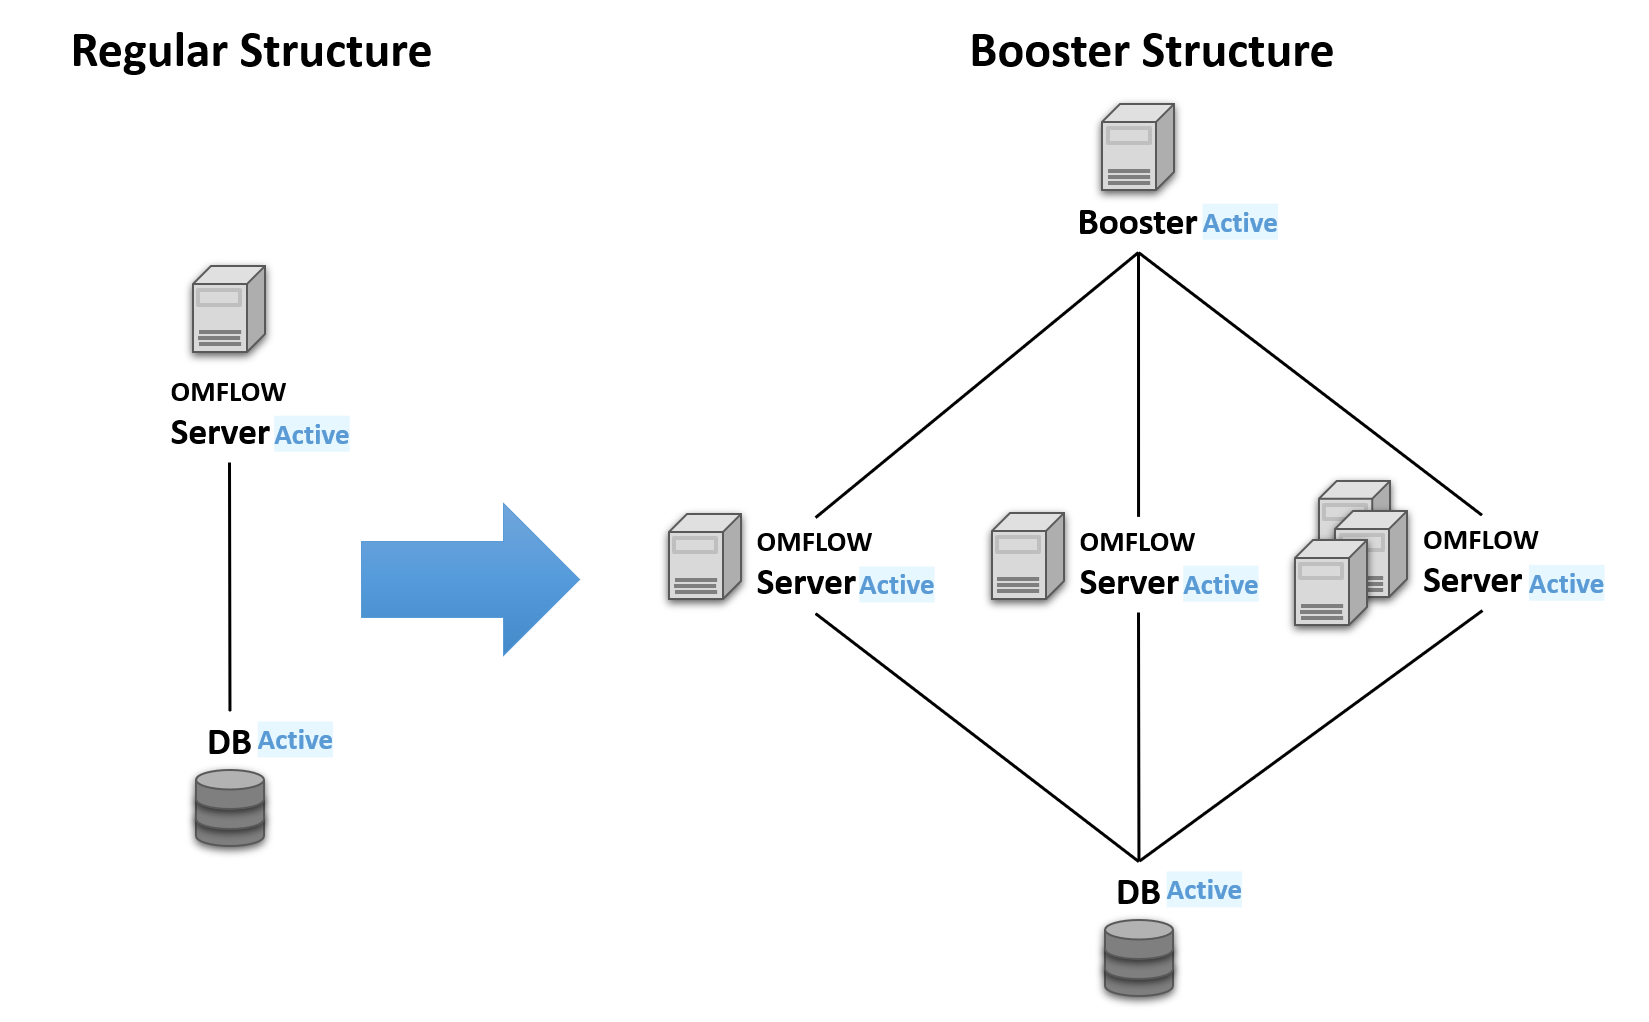
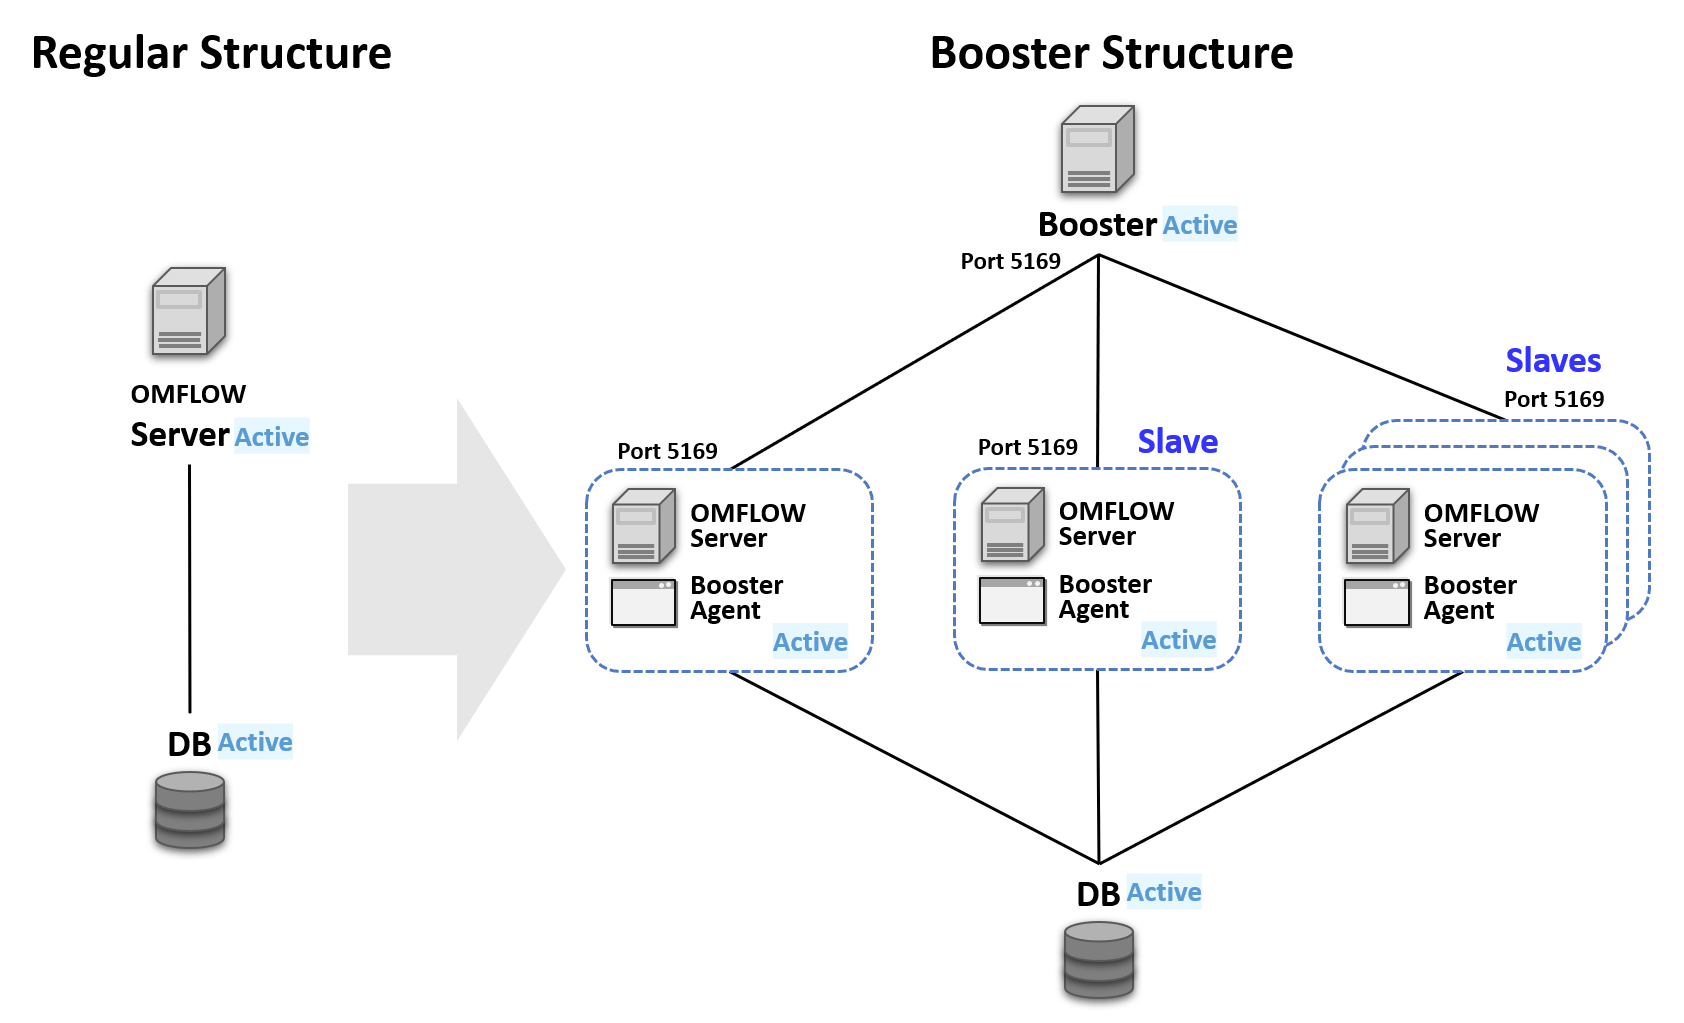
GitBook: [#507] No subject

diff --git a/3/an-zhuang-booster.md b/3/an-zhuang-booster.md
@@ -10,13 +10,13 @@ description: 支援Python：3.7.7、3.8
 
 當用戶需要長時間大量開單或是眾多使用者同時上線等極耗效能情境出現，導致單台OMFLOW Server難以負荷時。OMFLOW也提供了負載平衡的機制，可同時建置多台OMFLOW Server分散效能，並由Booster進行協同調配進而提升整體效率，架構圖如下：
 
-![](<../.gitbook/assets/OMFLOW架構 (2).png>)
+![](<../.gitbook/assets/OMFLOW架構 (1).png>)
 
 ### 負載平衡兼高可用架性構
 
 同時OMFLOW也提供了高可用性的架構，將Booster分為「主、副」兩台，所有OMFLOW Server都會依此順序向Booster報到，以確保此架構任一節點失去聯繫時，系統仍能正常運作。
 
-![](../.gitbook/assets/HA架構.png)
+![](<../.gitbook/assets/HA架構 (1).png>)
 
 #### OMFLOW Booster
 
@@ -28,13 +28,25 @@ description: 支援Python：3.7.7、3.8
 
 ## 安裝步驟
 
-### 1.  安裝 OMFLOW Booster
+### 1. 環境需求
+
+Booster伺服器：建議至少 4 core 8 GB，用於安裝OMFLOWBooster
+
+Python：確保Booster與OMFLOWServer的Python版本為3.7.7或3.8以上
+
+Port：確保Booster與OMFLOWServer之間的5169埠號相互開通
+
+### 2. 安裝 OMFLOW Booster
 
 最優先安裝，並依照情境安裝一台或兩台Booster。兩者無順序要求，安裝時需填入以下資訊：
 
 #### 輸入本機IP/Domain 及 Port：
 
 填寫此Booster所代表的IP/Domain及Port，並確保所有OMFLOW Server與此連通。
+
+{% hint style="info" %}
+除Booster以外，OMFLOW Server也需要開通5169埠號。
+{% endhint %}
 
 #### 輸入 HA Booster IP/Domain 及 Port(非必填)：
 
@@ -56,7 +68,7 @@ cd Booster_1140
 ./install.sh
 ```
 
-### 2. 建置資料庫
+### 3. 建置資料庫
 
 Booster架構並不支援Sqlite，需要事先建立好對應的資料庫。OMFLOW支援的資料庫如下：
 
@@ -71,7 +83,7 @@ Booster架構並不支援Sqlite，需要事先建立好對應的資料庫。OMFL
 
 
 
-### 3. 安裝 OMFLOW Server
+### 4. 安裝 OMFLOW Server
 
 當Booster安裝完畢後，接著安裝本架構的**第一台OMFLOW Server**。安裝過程會需要額外填入以下資訊：
 
@@ -91,12 +103,16 @@ Booster架構並不支援Sqlite，需要事先建立好對應的資料庫。OMFL
 
 若在安裝Booster之前已有運行中的OMFLOWServer，可按照以下步驟進行：
 
+{% hint style="warning" %}
+安裝前請先備份資料庫。
+{% endhint %}
+
 1. 確保運行中的OMFLOW Server資料庫並非Sqlite
 2. 將OMFLOW Server更新至最新版本
 3. 修改setting.py文件，將Booster相關資訊填入BOOSTER\_IP、BOOSTER\_PORT、SECOND\_BOOSTER\_IP、SECOND\_BOOSTER\_PORT四個參數
 4. 重啟OMFLOW Server
 
-### 4. 安裝 OMFLOW Booster Agent
+### 5. 安裝 OMFLOW Booster Agent
 
 待第一台OMFLOW Server安裝完畢後，在同一環境上繼續安裝OMFLOW Booster Agent。
 
@@ -116,7 +132,7 @@ cd BoosterAgent_1140
 ./install.sh
 ```
 
-### 5. 安裝 OMFLOW Slave
+### 6. 安裝 OMFLOW Slave
 
 待以上步驟皆完成後，最後便是依照情境的需求安裝一台以上的OMFLOWSlave。OMFLOWSlave內已包含OMFLOW Server及OMFLOWBooster Agent，安裝過程會需要額外填入以下資訊：
 
@@ -127,6 +143,12 @@ cd BoosterAgent_1140
 #### 輸入 HA Booster IP 及 Port：
 
 請輸入視為副Booster的相關資訊。
+
+{% hint style="info" %}
+Windows安裝方式
+
+有獨立的安裝檔 omflow\_slave\_1\_1\_4\_0.exe提供執行。
+{% endhint %}
 
 {% hint style="info" %}
 Linux 安裝方式
@@ -161,3 +183,8 @@ BoosterAgent
 ```
 {% endhint %}
 
+## 上傳License
+
+{% hint style="info" %}
+Booster在未上傳license情況下仍有30天試用期。
+{% endhint %}
